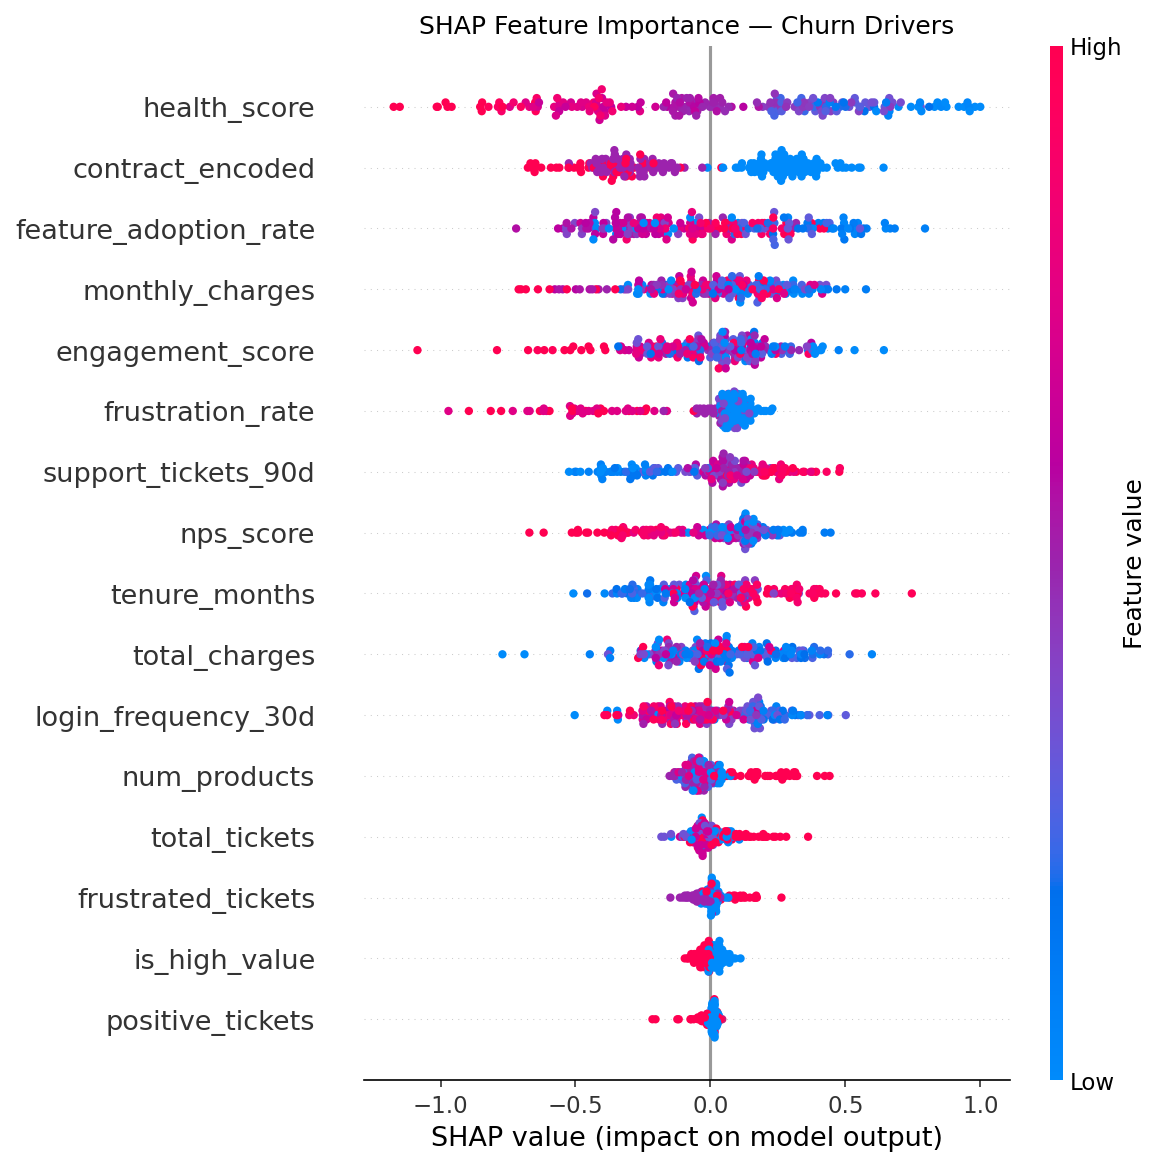
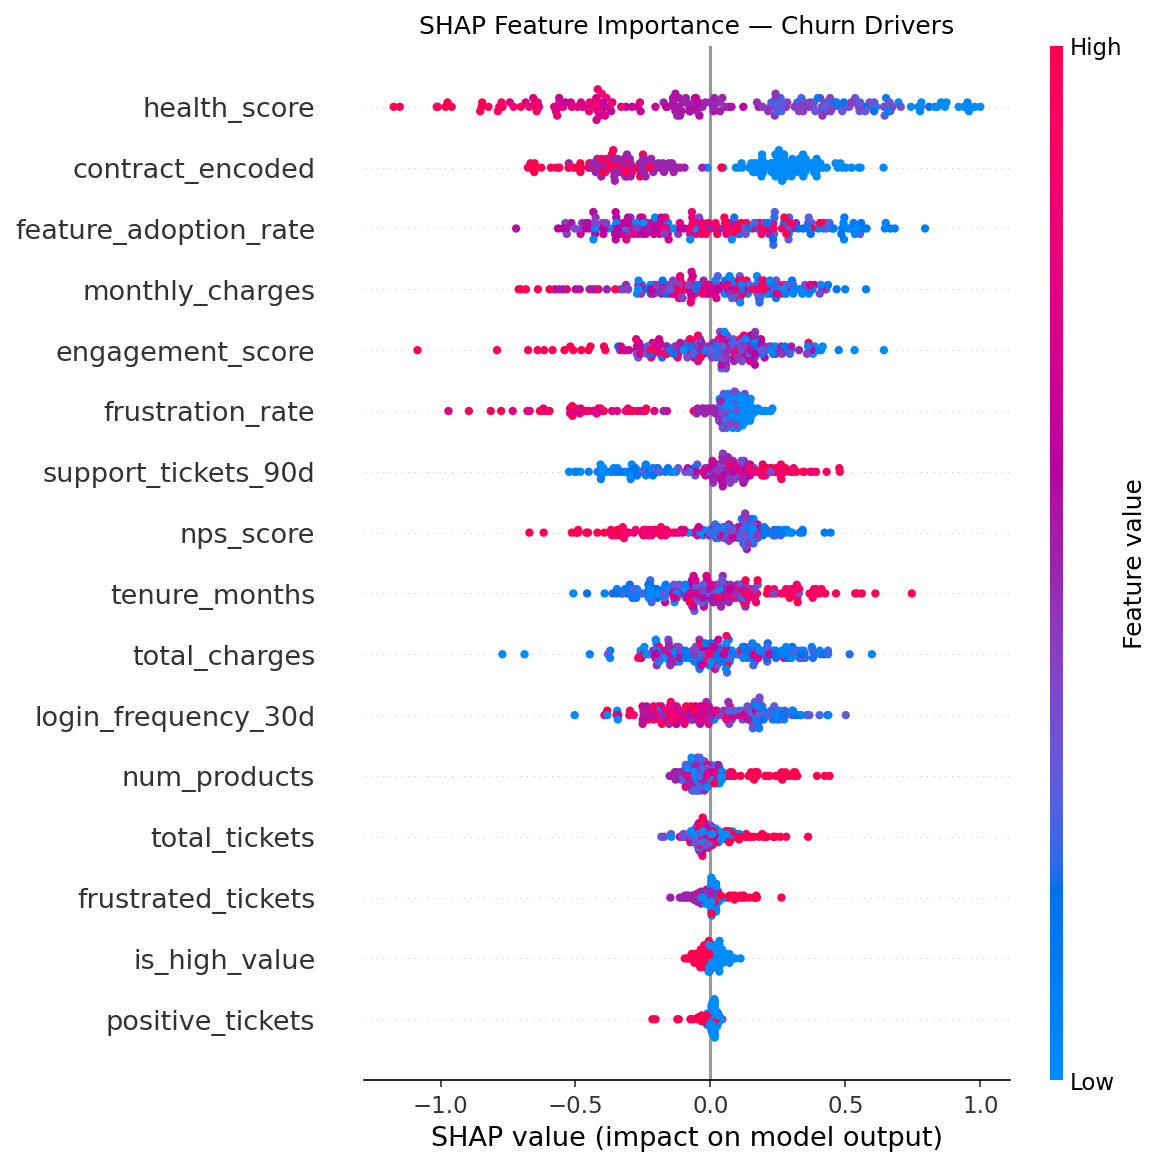
code

diff --git a/src/dashboard/app.py b/src/dashboard/app.py
@@ -6,6 +6,9 @@ Streamlit CX Stakeholder Dashboard
 from __future__ import annotations
 
 import os
+import subprocess
+import sys
+from pathlib import Path
 
 os.makedirs("outputs", exist_ok=True)
 os.environ.setdefault("MPLCONFIGDIR", os.path.abspath("outputs/.mplconfig"))
@@ -28,21 +31,63 @@ st.set_page_config(
 
 DB_PATH = "data/processed/saas_crm.duckdb"
 
+PIPELINE_STEPS: list[tuple[str, str]] = [
+    ("Data Generation", "src/data/generate_data.py"),
+    ("Feature Engineering & Health Scoring", "src/features/feature_engineering.py"),
+    ("Churn Prediction Model", "src/models/churn_model.py"),
+    ("NLP Ticket Analysis (mock without key)", "src/nlp/ticket_analyzer.py"),
+]
+
+
+def db_exists() -> bool:
+    return Path(DB_PATH).exists()
+
+
+def initialize_demo_db() -> None:
+    Path("data/raw").mkdir(parents=True, exist_ok=True)
+    Path("data/processed").mkdir(parents=True, exist_ok=True)
+    for _, script in PIPELINE_STEPS:
+        # Use Streamlit Cloud's python runtime (sys.executable)
+        subprocess.run([sys.executable, script], check=True)
+
 
 @st.cache_data
 def load_data():
     con = duckdb.connect(DB_PATH, read_only=True)
-    tables = con.execute("SHOW TABLES").df()["name"].tolist()
-    predictions = con.execute("SELECT * FROM predictions").df() if "predictions" in tables else pd.DataFrame()
-    tickets_raw = (
-        con.execute("SELECT * FROM support_tickets").df() if "support_tickets" in tables else pd.DataFrame()
-    )
-    ticket_analysis = (
-        con.execute("SELECT * FROM ticket_analysis").df() if "ticket_analysis" in tables else pd.DataFrame()
-    )
-    con.close()
-    return predictions, tickets_raw, ticket_analysis
+    try:
+        tables = con.execute("SHOW TABLES").df()["name"].tolist()
+        predictions = (
+            con.execute("SELECT * FROM predictions").df() if "predictions" in tables else pd.DataFrame()
+        )
+        tickets_raw = (
+            con.execute("SELECT * FROM support_tickets").df()
+            if "support_tickets" in tables
+            else pd.DataFrame()
+        )
+        ticket_analysis = (
+            con.execute("SELECT * FROM ticket_analysis").df()
+            if "ticket_analysis" in tables
+            else pd.DataFrame()
+        )
+        return predictions, tickets_raw, ticket_analysis
+    finally:
+        con.close()
 
+
+if not db_exists():
+    st.title("🏥 SaaS Customer Health Intelligence Platform")
+    st.warning("Demo database not found yet. Initialize data to launch the dashboard.")
+    st.markdown(
+        "- This will generate synthetic customers + support tickets, compute health scores, train a churn model, and create mock ticket insights.\n"
+        "- On Streamlit Cloud this runs once per fresh deployment."
+    )
+
+    if st.button("Initialize demo data (recommended)", type="primary"):
+        with st.spinner("Initializing demo dataset + models..."):
+            initialize_demo_db()
+        st.cache_data.clear()
+        st.rerun()
+    st.stop()
 
 df, tickets_raw, ticket_analysis = load_data()
 